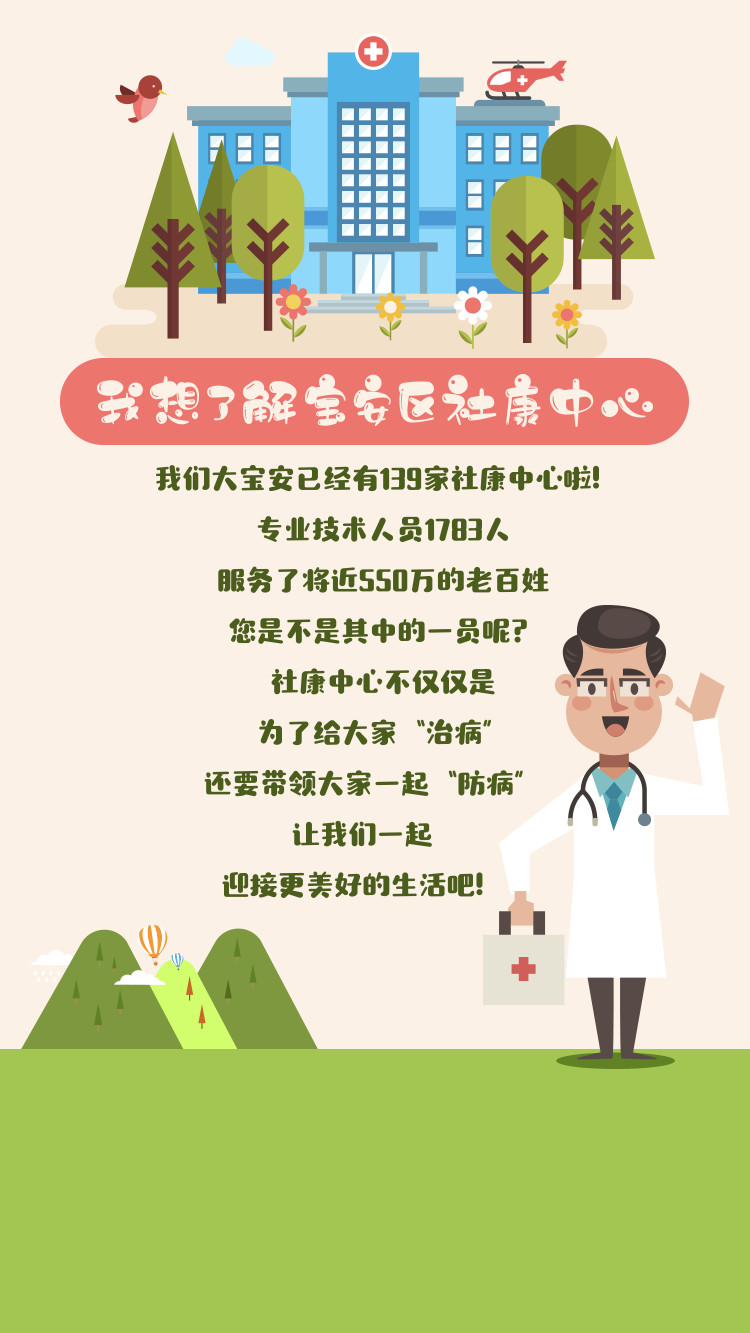
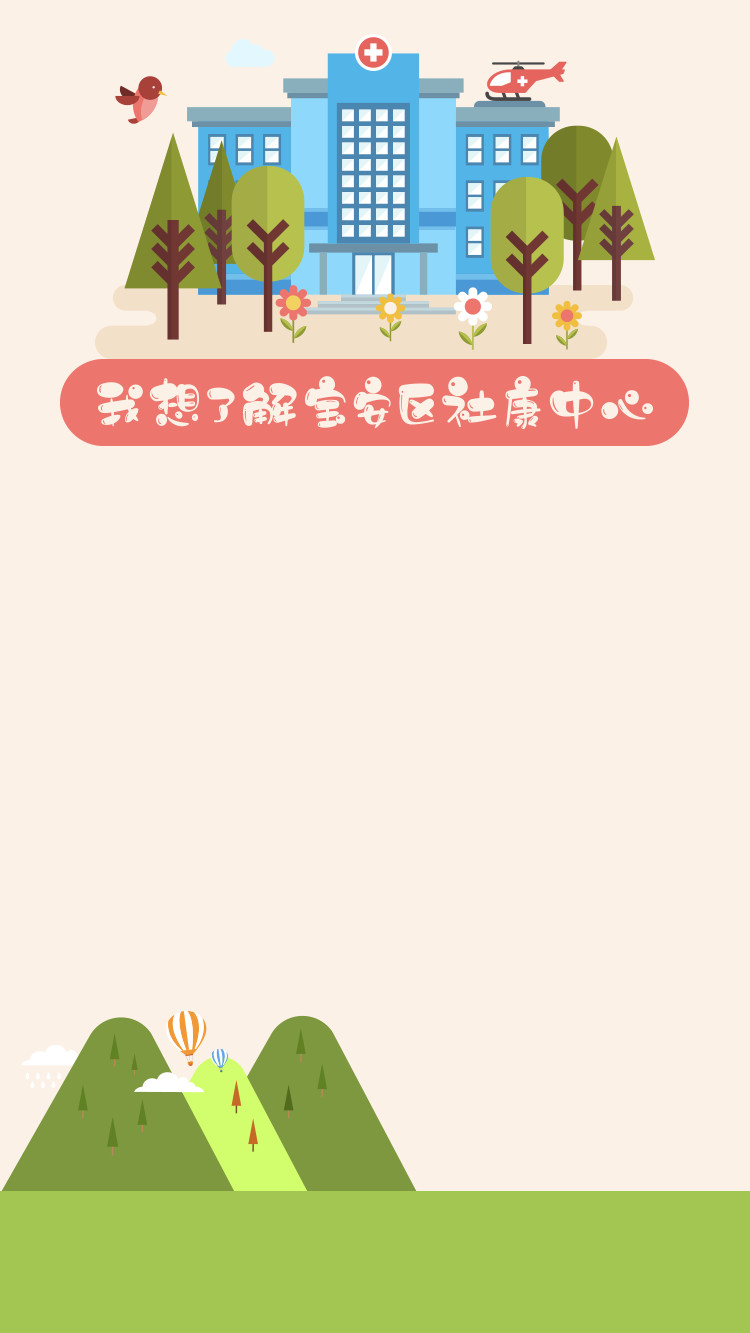
up

diff --git a/Application/Home/View/Haokoubei/index.html b/Application/Home/View/Haokoubei/index.html
@@ -433,6 +433,45 @@ a,img {
 	top: 0;
 	background: url(__PUBLIC__/img/haokoubei/service.jpg) no-repeat;
 }
+.p2 .p-content .doctor_info{
+  -webkit-animation: fadeInRight 3s ease 0s forwards;
+  width: 276px;
+  height: 521px;
+  position: absolute;
+  left: 477px;
+  top:703px;
+  background: url(__PUBLIC__/img/haokoubei/doctor_info.png) no-repeat;
+}
+.p2 .p-content .text_info{
+  -webkit-animation: fadeIn 3s ease 1s forwards;
+  width: 535px;
+  height: 523px;
+  position: absolute;
+  left: 102px;
+  top:464px;
+  opacity: 0;
+  background: url(__PUBLIC__/img/haokoubei/text_info.png) no-repeat;
+}
+.p3 .p-content .doctor_service{
+  -webkit-animation: fadeInLeft 3s ease 0s forwards;
+  width: 319px;
+  height: 524px;
+  position: absolute;
+  left: 48px;
+  top:700px;
+  background: url(__PUBLIC__/img/haokoubei/doctor_service.png) no-repeat;
+}
+.p3 .p-content .text_service{
+  -webkit-animation: fadeIn 3s ease 1s forwards;
+  width: 608px;
+  height: 403px;
+  position: absolute;
+  left: 57px;
+  top:470px;
+  opacity: 0;
+  background: url(__PUBLIC__/img/haokoubei/text_service.png) no-repeat;
+}
+
 .p2 .p-content .return-btn,.p3 .p-content .return-btn{
   width: 238px;
   height: 100%;
@@ -1057,6 +1096,8 @@ a,img {
       </div>
       <div class="p2 page">
           <div class="p-content">
+              <div class="text_info"></div>
+              <div class="doctor_info"></div>
               <div class="return-btn"></div>
               <div class="service-btn"></div>
               <div class="vote-btn"></div>
@@ -1064,6 +1105,8 @@ a,img {
       </div>
       <div class="p3 page">
           <div class="p-content">
+              <div class="text_service"></div>
+              <div class="doctor_service"></div>
               <div class="return-btn"></div>
               <div class="info-btn"></div>
               <div class="vote-btn"></div>
@@ -1452,6 +1495,8 @@ var app = function(e) {
             // document.getElementById("video-1").addEventListener('webkitbeginfullscreen', function() {
             //      alert(1);
             //  });
+
+            // 监听视频退出全屏操作
             document.getElementById("video-1").addEventListener('webkitendfullscreen', function() {
               $(".page-video").removeClass("active")
               $(".p1").addClass("active")
@@ -1466,7 +1511,7 @@ var app = function(e) {
               },
               7e3)
              });
-
+            // 监听视频播放完操作
             document.getElementById("video-1").addEventListener("ended",
             function(){
               this.webkitExitFullScreen();

diff --git a/Public/css/haokoubei/animation.css b/Public/css/haokoubei/animation.css
@@ -1,4 +1,19 @@
-/* .fadeInRight{-webkit-animation-name:fadeInRight;animation-name:fadeInRight} */
+@-webkit-keyframes fadeIn{
+    0%{opacity:0}
+    100%{opacity:1}
+}
+@keyframes fadeIn{
+    0%{opacity:0}
+    100%{opacity:1}
+}
+@-webkit-keyframes fadeInLeft{
+    0%{opacity:0;-webkit-transform:translate3d(-100%,0,0);transform:translate3d(-100%,0,0)}
+    100%{opacity:1;-webkit-transform:none;transform:none}
+}
+@keyframes fadeInLeft{
+    0%{opacity:0;-webkit-transform:translate3d(-100%,0,0);transform:translate3d(-100%,0,0)}
+    100%{opacity:1;-webkit-transform:none;transform:none}
+}
 @keyframes fadeInRight{
   0%{
     opacity:0;
